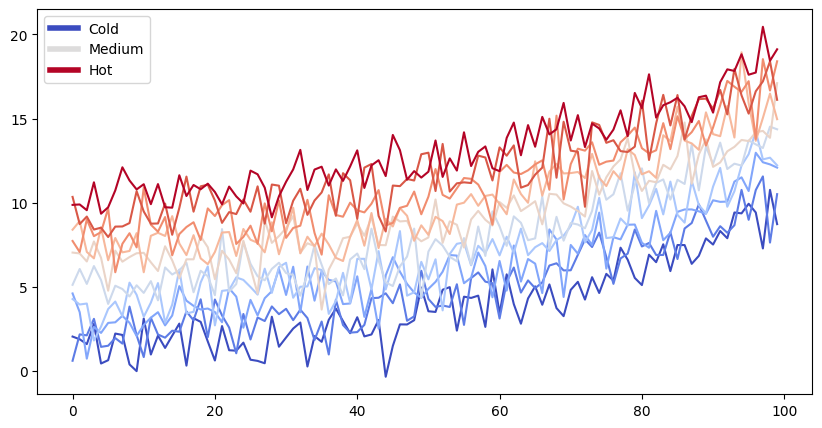
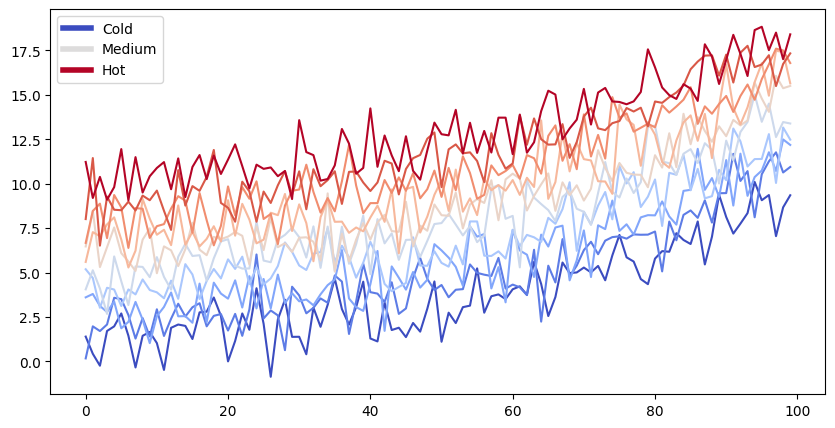
working on notebook conversion

diff --git a/_src/convert_notebooks.py b/_src/convert_notebooks.py
@@ -71,7 +71,9 @@ def move_converted_files(converted_notebooks_dir, posts_dir, images_dir):
         if item.endswith('.md'):
             destination = os.path.join(posts_dir, item)
             # Update image paths in the Markdown file
-            update_image_paths_in_markdown(source, images_dir)
+            notebook_files_dir = os.path.splitext(item)[0] + '_files/'
+            new_images_dir = os.path.join(images_dir, notebook_files_dir)
+            update_image_paths_in_markdown(source, new_images_dir)
         else:
             destination = os.path.join(images_dir, item)
         
@@ -94,7 +96,7 @@ notebook_dir = os.path.join(github_repo_dir, "_src/notebooks")  # Adjust as need
 converted_notebooks_dir = os.path.join(github_repo_dir, "_src/notebooks/converted")
 
 posts_dir = os.path.join(github_repo_dir, "_posts")
-images_dir = "assets/images"  # Relative path for Markdown files
+images_dir = "assets/images/posts/"  # Relative path for Markdown files
 
 convert_notebooks_to_markdown(notebook_dir, converted_notebooks_dir)
 move_converted_files(converted_notebooks_dir, posts_dir, images_dir)

diff --git a/_posts/2024-06-21-intro.md b/_posts/2024-06-21-intro.md
@@ -2,7 +2,7 @@
 Having to skim through a large unknown codebase can be overwhelming. I hope to convey the essential points necessary to reproduce our results and understand the data to anyone who is interested in our work by providing some examples of how the code can be used.
 
 ## Getting started
-- Make sure to download the datasets available via Zenodo [![DOI](https://zenodo.org/badge/DOI/10.5281/zenodo.10625021.svg)](https://doi.org/10.5281/zenodo.10625021).
+- Make sure to download the datasets available via Zenodo [![zenodo.10625021.svg](assets/images/posts/2024-06-21-intro_files/zenodo.10625021.svg)](https://doi.org/10.5281/zenodo.10625021).
 - Make sure to have a virtual environment installed and all dependencies required to run the code (see `installation`),
 - Make sure to configure `lib.config` to set `ROOT_DIR`, `DATA_DIR`, `OUTPUT_DIR` constants to tell the scripts where to locate the repository, the datasets and the output files.
 
@@ -22,7 +22,7 @@ plt.ion()
 
 
 
-    <contextlib.ExitStack at 0x7f8f57ea3ca0>
+    <contextlib.ExitStack at 0x7f5c41548b20>
 
 
 
@@ -30,7 +30,7 @@ Next, we create some sample data and plot the results.
 
 
 ```python
-np.random.seed(19680801)# Fixing random state for reproducibility
+np.random.seed(19682)# Fixing random state for reproducibility
 
 N = 10
 data = [np.logspace(0, 1, 100) + np.random.randn(100) + ii for ii in range(N)]
@@ -52,13 +52,13 @@ ax.legend(custom_lines, ['Cold', 'Medium', 'Hot'])
 
 
 
-    <matplotlib.legend.Legend at 0x7f8ef5ce4730>
+    <matplotlib.legend.Legend at 0x7f5bde3f4970>
 
 
 
 
     
-![png](../assets/images/posts/2024-06-21-intro_files/2024-06-21-intro_4_1.png)
+![2024-06-21-intro_4_1.png](assets/images/posts/2024-06-21-intro_files/2024-06-21-intro_4_1.png)
     
 
 
